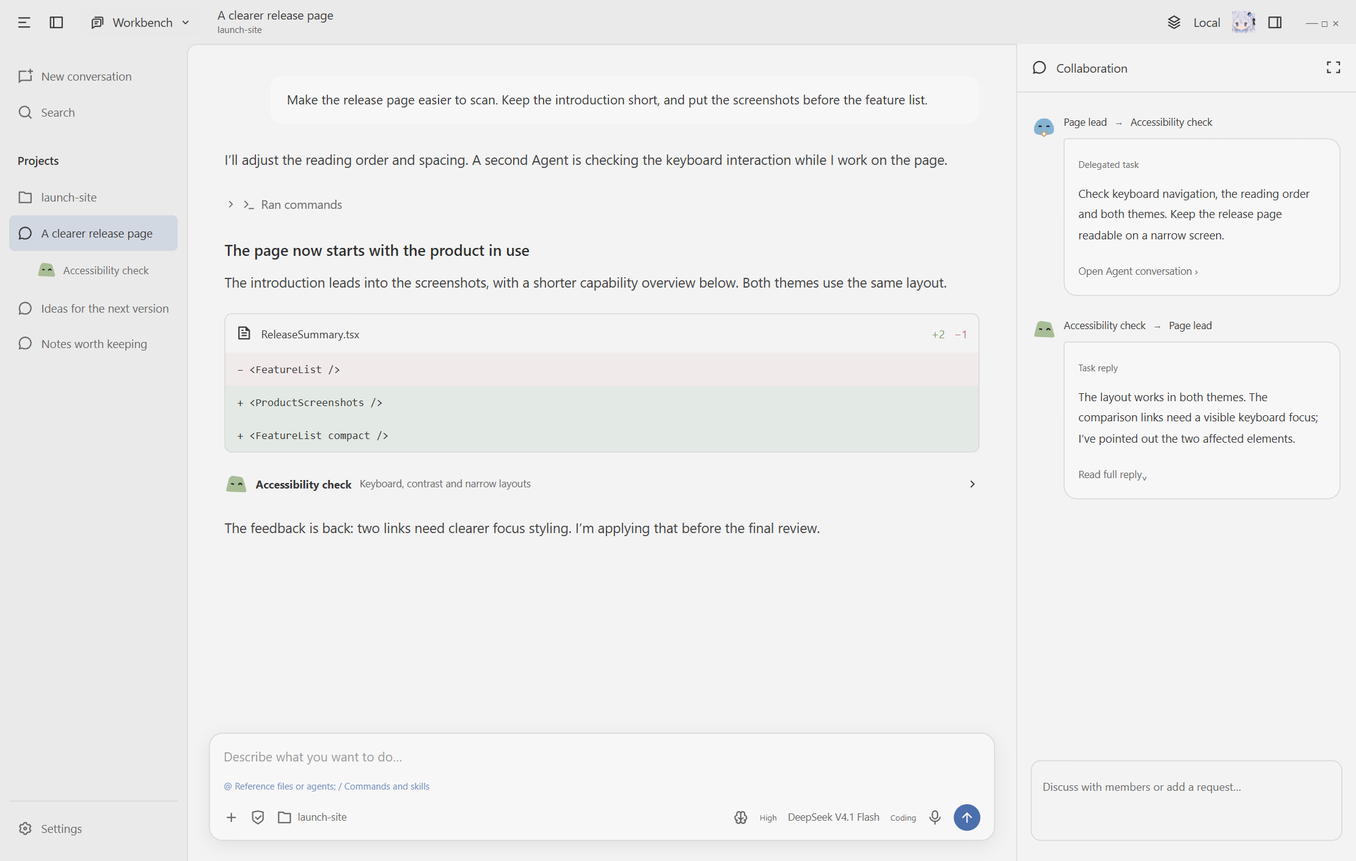
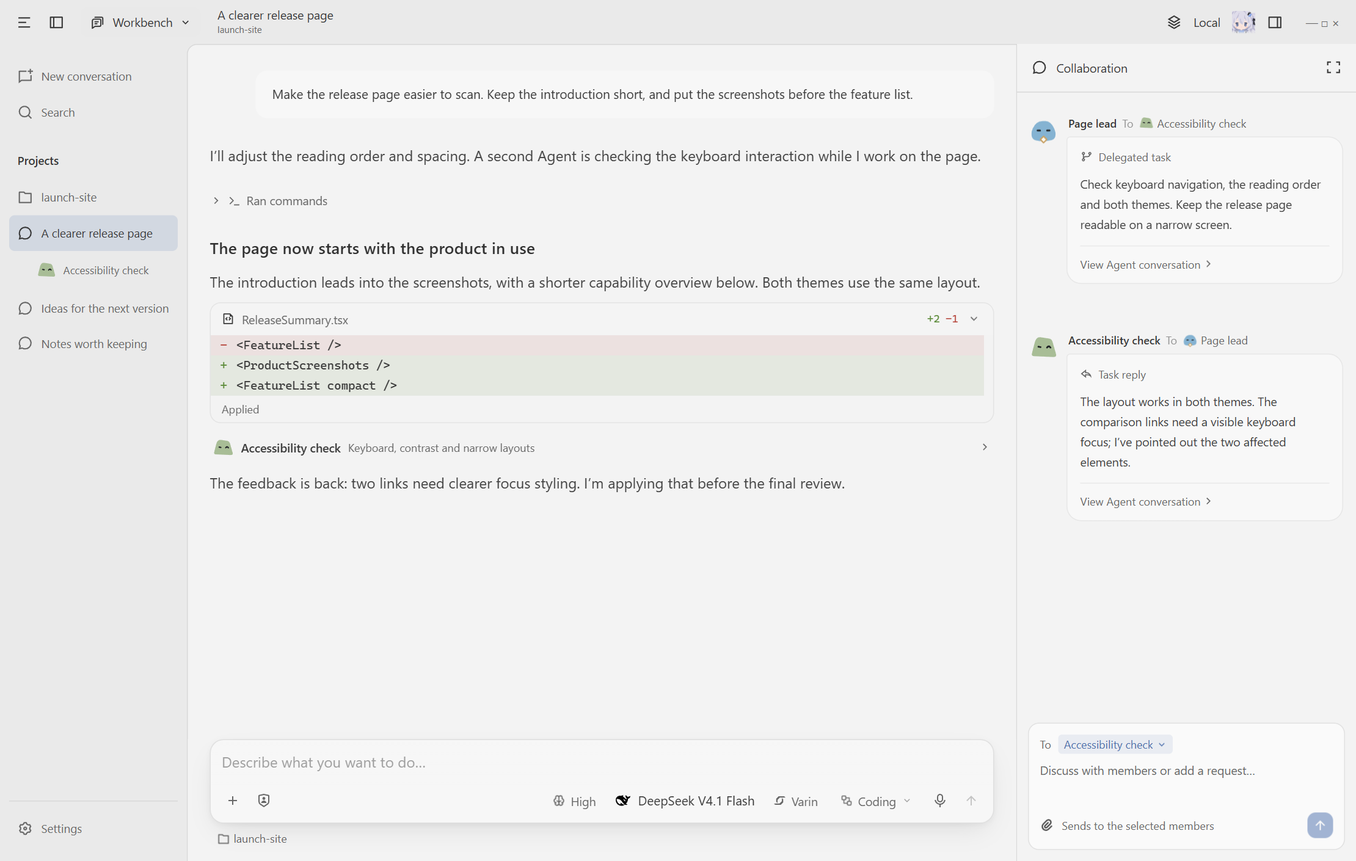
docs: expand chat showcases using production interface components

diff --git a/scripts/readme/scenes.tsx b/scripts/readme/scenes.tsx
@@ -16,16 +16,30 @@ import type { BotPanelModel } from '@/workbenches/bot/botPanelModel';
 import { BotWorkspaceNavigationContext, type BotWorkspaceNavigation } from '@/workbenches/bot/botWorkspaceViews';
 import { MarkdownRenderer } from '@/components/chat/MarkdownRenderer';
 import { DeclarativeUiContent } from '@/components/interactive-ui/DeclarativeUiContent';
-import { normalizeConversationUi } from '@varin/application-client';
+import { createThreadsHttpAPI, normalizeConversationUi, type ThreadThinkingLevel } from '@varin/application-client';
 import { ChatDialogueActivity } from '@/components/conversation/ChatDialogueActivity';
 import type { DialogueProcess } from '@/components/conversation/chatDialogueProjection';
 import type { ChatToolResultMessage } from '@/components/conversation/types';
+import { ThreadComposer } from '@/components/thread/ThreadComposer';
+import { ThreadAgentControls } from '@/components/thread/ThreadAgentControls';
+import { ThemeSystemContext } from '@/contexts/theme-system-context';
+import { TooltipProvider } from '@/components/ui/tooltip';
+import { ChatDelegation } from '@/components/conversation/ChatDelegation';
+import { ChatFileChangePreview } from '@/components/conversation/ChatFileChangePreview';
+import { CollaborationMessage } from '@/components/thread/CollaborationMessage';
+import { CollaborationComposer } from '@/components/thread/CollaborationComposer';
+import type { CollaborationFeedItem, CollaborationMember } from '@/components/thread/collaborationFeed';
+import workbenchImageEn from '../../.github/readme/assets/workbench-en.png?url';
+import workbenchImageZh from '../../.github/readme/assets/workbench-zh-CN.png?url';
+import ideImageEn from '../../.github/readme/assets/ide-en.png?url';
+import ideImageZh from '../../.github/readme/assets/ide-zh-CN.png?url';
 import './scenes.css';
 
 const params = new URLSearchParams(location.search);
 const scene = params.get('scene') || 'varin';
 const zh = params.get('lang') === 'zh-CN';
 const text = (en: string, cn: string) => zh ? cn : en;
+const botScene = scene !== 'workbench' && scene !== 'ide';
 const theme = light;
 const style = document.createElement('style');
 style.textContent = `:root { ${new CSSVariableGenerator().generate(theme as Theme)} }`;
@@ -34,6 +48,9 @@ await useI18nStore.getState().setLocale(zh ? 'zh-CN' : 'en');
 
 const taskNames = [text('Launch page', '发布页面'), text('Customer feedback', '用户反馈整理'), text('Release notes', '版本说明')];
 const noop = () => {};
+const themeContext = { currentTheme: light as Theme, availableThemes: [light as Theme], customThemesLoading: false,
+  reloadCustomThemes: async () => {}, themeMode: 'light' as const, lightThemeId: light.metadata.id, darkThemeId: '',
+  setThemeMode: noop, setLightThemePreference: noop, setDarkThemePreference: noop };
 const identity = { runtime: 'agent' as const, threadId: 'readme-release', branchId: 'main' };
 const model = {
   bot: { id: 'readme-varin', name: 'Varin', archived: false, activity: { state: 'awake' } }, figure: 'idle', stage: null,
@@ -59,7 +76,7 @@ function Row({ icon, children, active = false, end }: { icon: IconName; children
   return <div className={`nav-row ${active ? 'selected' : ''}`}><I name={icon} /><span>{children}</span>{end && <small>{end}</small>}</div>;
 }
 function Header() { return <header className="frame-header">
-  <I name="menu-2" /><I name="layout-left" /><span className="mode">{scene === 'varin' || scene === 'conversation' ? <VarinLogo decorative width={17} height={17} /> : <I name={scene === 'workbench' ? 'workbench-agent' : 'code'} />}{scene === 'workbench' ? text('Workbench', '工作台') : scene === 'ide' ? 'IDE' : 'Varin'}<I name="arrow-down-s" size={13} /></span>
+  <I name="menu-2" /><I name="layout-left" /><span className="mode">{botScene ? <VarinLogo decorative width={17} height={17} /> : <I name={scene === 'workbench' ? 'workbench-agent' : 'code'} />}{scene === 'workbench' ? text('Workbench', '工作台') : scene === 'ide' ? 'IDE' : 'Varin'}<I name="arrow-down-s" size={13} /></span>
   <div className="frame-title">{scene === 'ide' || scene === 'workbench' ? text('A clearer release page', '让发布页面更清晰') : text('Getting ready for Friday', '准备周五的发布')}<small>{scene === 'ide' || scene === 'workbench' ? 'launch-site' : 'Varin'}</small></div>
   <div className="frame-end"><I name="stack" />Local<BotFigure state="idle" size={25} still /><I name="layout-right" /><span className="window-controls">— □ ×</span></div>
 </header>; }
@@ -81,35 +98,60 @@ function Activity({ kind = 'search' }: { kind?: 'search' | 'code' }) {
   return <ChatDialogueActivity process={process} executions={{}} results={results} active={false} renderActivity={() => null} />;
 }
 function User({ children }: { children: React.ReactNode }) { return <div className="user-message">{children}</div>; }
-function Files() { return <div className="file-row"><I name="file-text" /><span>release-notes.md</span><small>Markdown</small><I name="arrow-right-s" size={13} /></div>; }
-function Composer({ bot = true }: { bot?: boolean }) { return <div className="composer-wrap"><div className="composer">
-  <div className="composer-placeholder">{text('Describe what you want to do…', '描述你想做的事…')}</div>
-  <div className="composer-hints">{text('@ Reference files or agents; / Commands and skills', '@ 引用文件或智能体；/ 使用命令和技能')}</div>
-  <div className="composer-controls"><I name="add" /><I name="shield-check" />{!bot && <span><I name="folder" />launch-site</span>}<div className="spacer" /><I name="brain" /><small>{text('High', '高')}</small><span>DeepSeek V4.1 Flash</span>{!bot && <small>{text('Coding', '编程')}</small>}<I name="mic" /><span className="send"><I name="arrow-up" /></span></div>
-</div></div>; }
+function Files() { return <M>{'[release-notes.md](release-notes.md)'}</M>; }
+function Delegate({ name, id, task, completed = false }: { name: string; id: string; task: string; completed?: boolean }) {
+  return <ChatDelegation call={{ type: 'toolCall', id, name: 'dispatch', arguments: { name, task } }}
+    result={{ role: 'toolResult', toolCallId: id, toolName: 'dispatch', content: [], details: { threadId: id, branchId: 'main', name }, timestamp: 0, isError: false }}
+    status={completed ? 'success' : 'running'} cwd="" output={null} details={null} />;
+}
+function Composer({ bot = true }: { bot?: boolean }) {
+  const [value, setValue] = React.useState('');
+  const [selection, setSelection] = React.useState<{ providerId: string; modelId: string; thinkingLevel: ThreadThinkingLevel }>({ providerId: 'deepseek', modelId: 'deepseek-v4.1-flash', thinkingLevel: 'high' });
+  return <form className="composer-wrap" onSubmit={event => event.preventDefault()}>
+    <ThreadComposer editorRef={null} value={value} onChange={setValue} {...selection}
+      models={[{ providerId: 'deepseek', modelId: 'deepseek-v4.1-flash', name: 'DeepSeek V4.1 Flash', thinkingLevels: ['off', 'low', 'medium', 'high'] }]}
+      onModelChange={(providerId, modelId, thinkingLevel) => setSelection({ providerId, modelId, thinkingLevel })}
+      modelDisabled={false} attachmentDisabled={false} imageDisabled={false} sendDisabled={false} pending={false} active={false} retrying={false}
+      onFiles={noop} onAttachImages={noop} onAttachPdfs={noop} hasInput={Boolean(value.trim())}
+      onWorkspace={bot ? undefined : noop} workspaceLabel="launch-site" attachmentNames={[]} skills={[]}
+      suggestion={scene === 'varin' ? text('Show me the release notes draft first.', '先把版本说明的草稿给我看看。') : undefined}
+      agentControls={bot ? undefined : <ThreadAgentControls workFocus="code" disabled={false} onWorkFocusChange={noop} />} />
+  </form>;
+}
 const choice = normalizeConversationUi({ type: 'choice', label: text('Who should the release notes speak to first?', '这次版本说明，先面向哪些读者？'),
   options: [text('People trying the product for the first time', '第一次使用产品的新用户'), text('Existing users looking for what changed', '想了解变化的现有用户')], action: text('Use this direction', '按这个方向继续') });
 function VarinConversation() { return <section className="conversation"><div className="message-flow rich-flow">
   <User>{text('Let’s get ready for Friday’s release. Help me pull the feedback, release notes and website work together.', '一起准备周五的发布吧。帮我把用户反馈、版本说明和官网的工作统筹起来。')}</User>
   <M>{text('I’ll gather what changed and keep the website work moving alongside it. We can settle the wording here.', '我先把这次变化和反馈整理到一起，官网的修改同时推进。版本说明的表达，我们在这里继续商量。')}</M>
   <Activity />
-  <div className="task-pair">{taskNames.slice(0, 2).map((name, i) => <div className="delegate" key={name}><AgentAvatar identity={`readme-work-${i}`} role="lead" size={24} /><b>{name}</b><small>{text('Working', '进行中')}</small><I name="arrow-right-s" size={14} /></div>)}</div>
+  <div className="delegated-work">{taskNames.slice(0, 2).map((name, i) => <Delegate key={name} name={name} id={`readme-work-${i}`} task={i === 0 ? text('Refine the introduction and screenshot order', '完善简介与配图顺序') : text('Group feedback and note recurring questions', '整理反馈与反复出现的问题')} />)}</div>
   <M>{text('### Give people a clear starting point\nThe most useful story is **what someone can do on their first day**. The feature list can follow once they understand that.\n\nI’ve put the notes in one file. We can refine them while the page and feedback review continue.', '### 先让人知道，打开后可以做什么\n这次最值得讲清楚的是**第一次打开就能完成什么**。功能清单可以放在后面，让人先看到使用方式。\n\n我把说明整理成了一个文件。官网页面和反馈整理继续推进，我们可以先完善这份说明。')}</M>
   <Files />
   <DeclarativeUiContent node={choice} sourceKey="readme-audience" />
 </div><Composer /></section>; }
-function Collaboration() { return <aside className="collaboration"><div className="panel-heading"><I name="chat-3" />{text('Collaboration', '协作')}<div className="spacer" /><I name="fullscreen" /></div>
-  <div className="collab-message"><AgentAvatar identity="page-lead" role="lead" size={25} /><div><div className="participants">{text('Page lead', '页面负责人')} <small>→</small> {text('Accessibility check', '无障碍检查')}</div><div className="bubble"><small>{text('Delegated task', '派发任务')}</small><p>{text('Check keyboard navigation, the reading order and both themes. Keep the release page readable on a narrow screen.', '检查键盘导航、阅读顺序和两种主题。确认发布页面在窄屏下依然易读。')}</p><span className="text-link">{text('Open Agent conversation', '查看 Agent 对话')} ›</span></div></div></div>
-  <div className="collab-message"><AgentAvatar identity="accessibility-review" size={25} /><div><div className="participants">{text('Accessibility check', '无障碍检查')} <small>→</small> {text('Page lead', '页面负责人')}</div><div className="bubble"><small>{text('Task reply', '任务回复')}</small><p>{text('The layout works in both themes. The comparison links need a visible keyboard focus; I’ve pointed out the two affected elements.', '两种主题下布局都正常。对比区域的链接需要清晰的键盘焦点，我已经标出了涉及的两个元素。')}</p><span className="text-link">{text('Read full reply', '展开全文')}⌄</span></div></div></div>
-  <div className="collab-input">{text('Discuss with members or add a request…', '和成员讨论，或补充要求…')}</div>
-</aside>; }
+function Collaboration() {
+  const api = React.useMemo(() => createThreadsHttpAPI(), []);
+  const [expanded, setExpanded] = React.useState<Record<string, boolean>>({});
+  const members: CollaborationMember[] = [{ threadId: 'page-lead', name: text('Page lead', '页面负责人'), agentId: 'lead', avatar: null, lead: true }, { threadId: 'accessibility-review', name: text('Accessibility check', '无障碍检查'), agentId: 'review', avatar: null }];
+  const shared = { operationId: 'readme-review', executionId: 'readme-review', senderBranchId: 'main', targetBranchId: 'main', acceptedCursor: 1, attachments: [] };
+  const items: CollaborationFeedItem[] = [
+    { id: 'dispatch', acceptedCursor: 1, kind: 'dispatch', dispatch: { ...shared, acceptedAtMs: 0, senderThreadId: 'page-lead', targetThreadId: 'accessibility-review', task: text('Check keyboard navigation, the reading order and both themes. Keep the release page readable on a narrow screen.', '检查键盘导航、阅读顺序和两种主题。确认发布页面在窄屏下依然易读。') } },
+    { id: 'report', acceptedCursor: 2, kind: 'report', report: { ...shared, senderThreadId: 'accessibility-review', targetThreadId: 'page-lead', outcome: 'succeeded', text: text('The layout works in both themes. The comparison links need a visible keyboard focus; I’ve pointed out the two affected elements.', '两种主题下布局都正常。对比区域的链接需要清晰的键盘焦点，我已经标出了涉及的两个元素。') } },
+  ];
+  return <aside className="collaboration"><div className="panel-heading"><I name="chat-3" />{text('Collaboration', '协作')}<div className="spacer" /><I name="fullscreen" /></div>
+    <div className="collaboration-feed">{items.map(item => <CollaborationMessage key={item.id} item={item} members={members} expanded={Boolean(expanded[item.id])} onExpandedChange={open => setExpanded(previous => ({ ...previous, [item.id]: open }))} onMember={noop} onReply={noop} onCopy={noop} onExchange={noop} />)}</div>
+    <CollaborationComposer api={api} identity={identity} draftKey="readme-collaboration" members={members} defaultTarget={{ runtime: 'agent', threadId: 'accessibility-review', branchId: 'main' }} onSent={noop} loadMembers={noop} moreMembers={false} />
+  </aside>;
+}
 function WorkbenchConversation() { return <section className="conversation"><div className="message-flow">
   <User>{text('Make the release page easier to scan. Keep the introduction short, and put the screenshots before the feature list.', '让发布页面更容易阅读。简介短一些，把截图放到功能列表之前。')}</User>
   <M>{text('I’ll adjust the reading order and spacing. A second Agent is checking the keyboard interaction while I work on the page.', '我来调整阅读顺序和间距。另一个 Agent 会同时检查键盘交互。')}</M>
   <Activity kind="code" />
   <M>{text('### The page now starts with the product in use\nThe introduction leads into the screenshots, with a shorter capability overview below. Both themes use the same layout.', '### 先展示产品怎么用\n简介之后直接进入截图，下方再展开精简的能力介绍。亮色和暗色使用同一套布局。')}</M>
-  <div className="diff"><div><I name="file-text" />ReleaseSummary.tsx<span className="spacer" /><span className="green">+2</span><span className="red">−1</span></div><pre className="removed">− {'<FeatureList />'}</pre><pre className="added">+ {'<ProductScreenshots />'}</pre><pre className="added">+ {'<FeatureList compact />'}</pre></div>
-  <div className="delegate"><AgentAvatar identity="accessibility-review" size={25} /><b>{text('Accessibility check', '无障碍检查')}</b><small>{text('Keyboard, contrast and narrow layouts', '键盘、对比度和窄屏布局')}</small><I name="arrow-right-s" size={15} /></div>
+  <ChatFileChangePreview previewId="readme-release-layout" phase="applied" file={{ path: 'ReleaseSummary.tsx', operation: 'update', counts: { added: 2, removed: 1 }, lines: [
+    { kind: 'remove', text: '<FeatureList />' }, { kind: 'add', text: '<ProductScreenshots />' }, { kind: 'add', text: '<FeatureList compact />' },
+  ] }} />
+  <Delegate completed name={text('Accessibility check', '无障碍检查')} id="accessibility-review" task={text('Keyboard, contrast and narrow layouts', '键盘、对比度和窄屏布局')} />
   <M>{text('The feedback is back: two links need clearer focus styling. I’m applying that before the final review.', '检查结果已经回来了：有两处链接需要更清晰的焦点样式。我正在补上，然后再看一遍最终效果。')}</M>
 </div><Composer bot={false} /></section>; }
 function Chart() { const [series, setSeries] = React.useState('all'); const values = series === 'all' ? [38, 26, 22, 14] : [44, 29, 18, 9]; return <div className="chart">
@@ -126,6 +168,40 @@ function RichConversation() { return <section className="conversation"><div clas
   <div className="sources"><I name="file-text" />feedback.csv<I name="global" />{text('Community discussion', '社区讨论')}<I name="arrow-right-s" size={14} /></div>
   <div className="turn-end"><span><I name="file-copy" /><I name="git-branch" /><I name="more" /></span><small>↓ 8,420 ↑ 1,106 {text('Cache', '缓存率')} 84%</small></div>
 </div><Composer /></section>; }
+function ChoiceConversation() {
+  const versions = normalizeConversationUi({ type: 'tabs', label: text('Opening paragraph', '开头的两种写法'), tabs: [
+    { label: text('A clear first step', '从具体用途开始'), content: text('**Start with something you want to get done.** Talk it through with Varin, let work continue alongside the conversation, and open a task whenever you want a closer look.', '**从一件想完成的事开始。** 和 Varin 商量，工作在对话旁继续推进；想看细节时，随时进入任务。') },
+    { label: text('What changed', '从这次更新开始'), content: text('**Keep the work moving, keep the conversation open.** This release brings task follow-ups, richer results and connected workspaces into the same conversation.', '**工作继续，交流也继续。** 这次更新把任务跟进、丰富的结果呈现和连接的工作区带进了同一段对话。') },
+  ] });
+  const preferences = normalizeConversationUi({ type: 'form', fields: [
+    { type: 'choice', key: 'focus', label: text('What should the short announcement include?', '简短的发布消息里，哪些值得保留？'), multiple: true, allowOther: true,
+      options: [text('A concrete task someone can try right away', '一个读完就能尝试的具体任务'), text('A picture showing the conversation and ongoing work together', '一张把聊天与进行中的工作放在一起的配图'), text('Installation steps and the full technical change list', '安装步骤和完整的技术改动清单')] },
+    { type: 'input', key: 'length', label: text('Approximate length', '期望篇幅'), inputType: 'range', unit: text('words', '字'), min: 200, max: 800, step: 50 },
+  ], action: text('Draft the announcement with these preferences', '按这些偏好写一版发布消息') });
+  return <section className="conversation"><div className="message-flow rich-flow choice-flow">
+    <User>{text('Show me two openings first. Let me choose what to keep before you write the full announcement.', '先给我看看两种开头，正文里保留哪些内容，我选一下你再写。')}</User>
+    <M>{text('I’d lead with a task people can recognize. You can switch between the openings, then adjust what goes into the short version.', '我倾向先讲一件读者能理解的具体事情。两种开头可以切换着看，再选短版里要保留的内容。')}</M>
+    <DeclarativeUiContent node={versions} sourceKey="readme-openings" />
+    <DeclarativeUiContent node={preferences} sourceKey="readme-announcement-preferences" />
+  </div><Composer /></section>;
+}
+function ReadingConversation() {
+  const imageUrl = (url: string) => new URL(url, location.href).href;
+  const gallery = text(
+    `![Workbench — follow changes and Agent replies](${imageUrl(workbenchImageEn)})\n\n![IDE — edit files beside the conversation](${imageUrl(ideImageEn)})`,
+    `![工作台：跟进改动与 Agent 回复](${imageUrl(workbenchImageZh)})\n\n![IDE：在对话旁直接编辑文件](${imageUrl(ideImageZh)})`);
+  const notes = normalizeConversationUi({ type: 'disclosure', label: text('Read the suggested captions', '展开看配图文案'), content: text(
+    '**Workbench:** See how a task is progressing, read changes and talk to the Agents doing the work.\n\n**IDE:** Keep the conversation close while you edit files, run commands and inspect the project.',
+    '**工作台：** 看任务怎么推进，阅读改动，并与正在工作的 Agent 继续讨论。\n\n**IDE：** 直接编辑文件、运行命令、检查项目，同时保留旁侧对话。') });
+  return <section className="conversation"><div className="message-flow rich-flow reading-flow">
+    <User>{text('How should these two screenshots sit beside the Varin introduction? Compare them for me.', '这两张图怎么配合前面的 Varin 介绍？放在一起帮我比较一下。')}</User>
+    <M>{text('### Show how far someone can step into the work\nThe Varin conversation explains the overall experience. These two views show what happens when you want to follow a task or work directly on a file.', '### 用两张图解释，可以深入到哪一步\nVarin 对话负责讲整体体验。这两张图接着说明：想跟进任务，或者亲自处理文件时，可以怎么做。')}</M>
+    <M>{gallery}</M>
+    <M>{text('| View | What the reader sees | Where it fits |\n| --- | --- | --- |\n| **Workbench** | Changes, progress and Agent replies | After introducing task delegation |\n| **IDE** | The file, terminal and conversation together | When explaining hands-on editing |', '| 视图 | 读者先看到什么 | 放在哪里更合适 |\n| --- | --- | --- |\n| **工作台** | 文件改动、任务进度与 Agent 回复 | 派发任务的介绍之后 |\n| **IDE** | 文件、终端与旁侧对话 | 说明亲自编辑的地方 |')}</M>
+    <DeclarativeUiContent node={notes} sourceKey="readme-image-captions" />
+    <div className="turn-end"><span><I name="file-copy" /><I name="git-branch" /><I name="more" /></span><small>↓ 6,280 ↑ 824 {text('Cache', '缓存率')} 91%</small></div>
+  </div><Composer /></section>;
+}
 function Editor() { const host = React.useRef<HTMLDivElement>(null); React.useEffect(() => { let editor: { dispose(): void } | undefined; let cancelled = false; void Promise.all([import('monaco-editor/esm/vs/editor/editor.api'), import('monaco-editor/esm/vs/editor/editor.worker?worker'), import('monaco-editor/esm/vs/languages/definitions/typescript/register.js')]).then(([monaco, worker]) => {
     if (cancelled || !host.current) return;
     (globalThis as typeof globalThis & { MonacoEnvironment: unknown }).MonacoEnvironment = { getWorker: () => new worker.default() };
@@ -134,6 +210,6 @@ function Editor() { const host = React.useRef<HTMLDivElement>(null); React.useEf
     document.body.dataset.editorReady = 'true';
   }); return () => { cancelled = true; editor?.dispose(); }; }, []); return <div className="editor-area"><div className="editor-tabs"><span><I name="file-code" />ReleaseSummary.tsx ×</span><span>release.css</span></div><div ref={host} className="monaco-host" /><div className="terminal"><div>{text('Terminal', '终端')} <span>{text('Problems', '问题')} 0</span></div><pre>$ bun run build<br /><span className="green">✓</span> {text('Build completed', '构建完成')}<br />$ <span className="cursor">▌</span></pre></div></div>; }
 function IdeChat() { return <div className="ide-chat"><div className="panel-heading"><I name="chat-3" />{text('Conversation', '对话')}</div><User>{text('The order looks good. Keep the focus styles consistent with the rest of the site.', '顺序看着不错，焦点样式也和站点其他部分保持一致。')}</User><M>{text('I’ll reuse the existing focus treatment. The content order stays as we agreed.', '我会复用已有的焦点样式，内容顺序保持刚才商量的版本。')}</M><Activity kind="code" /><M>{text('The changes are in `ReleaseSummary.tsx` and `release.css`. You can edit the files here while we keep discussing the page.', '改动在 `ReleaseSummary.tsx` 和 `release.css`。你可以直接在这里编辑，我们继续讨论页面。')}</M><Files /><Composer bot={false} /></div>; }
-export function App() { return <I18nProvider><div className={`readme-app ${scene}`}><Header /><div className="frame-body">{(scene === 'workbench' || scene === 'ide') && <Sidebar />}{scene === 'varin' ? <><VarinConversation /><aside className="bot-area"><BotWorkspaceNavigationContext.Provider value={navigation}><BotPanelBody model={model} /></BotWorkspaceNavigationContext.Provider></aside></> : scene === 'workbench' ? <><WorkbenchConversation /><Collaboration /></> : scene === 'ide' ? <><Editor /><IdeChat /></> : <RichConversation />}</div></div></I18nProvider>; }
-createRoot(document.getElementById('root')!).render(<App />);
+export function App() { return <I18nProvider><div className={`readme-app ${scene}`}><Header /><div className="frame-body">{!botScene && <Sidebar />}{scene === 'varin' ? <><VarinConversation /><aside className="bot-area"><BotWorkspaceNavigationContext.Provider value={navigation}><BotPanelBody model={model} /></BotWorkspaceNavigationContext.Provider></aside></> : scene === 'workbench' ? <><WorkbenchConversation /><Collaboration /></> : scene === 'ide' ? <><Editor /><IdeChat /></> : scene === 'conversation-choices' ? <ChoiceConversation /> : scene === 'conversation-reading' ? <ReadingConversation /> : <RichConversation />}</div></div></I18nProvider>; }
+createRoot(document.getElementById('root')!).render(<ThemeSystemContext.Provider value={themeContext}><TooltipProvider><App /></TooltipProvider></ThemeSystemContext.Provider>);
 document.body.dataset.readmeReady = 'true';

diff --git a/scripts/readme/scenes.css b/scripts/readme/scenes.css
@@ -1,7 +1,6 @@
 /* Layout fixtures surround the product's actual Markdown, choices, activity,
    avatars, Bot panel and editor. This stylesheet is never shipped with the app. */
 @source "./scenes.tsx";
-:root { --font-sans: "Segoe UI", "Microsoft YaHei UI", sans-serif; --font-mono: Consolas, monospace; }
 body { margin: 0; font-family: var(--font-sans); color: var(--foreground); background: var(--background); }
 * { box-sizing: border-box; }
 .readme-app { width: 1480px; height: 940px; overflow: hidden; background: var(--workbench-frame); }
@@ -20,22 +19,10 @@ body { margin: 0; font-family: var(--font-sans); color: var(--foreground); backg
 .nav-bottom { margin-top: auto; border-top: 1px solid var(--border); padding-top: 10px; }
 .sub-agent { display: flex; gap: 8px; align-items: center; padding: 10px 0 12px 30px; font-size: 11.5px; color: var(--muted-foreground); }
 .conversation { flex: 1; min-width: 0; display: flex; flex-direction: column; background: var(--background); border-radius: 11px 0 0 0; border: 1px solid var(--border); border-bottom: 0; }
-.message-flow { flex: 1; min-height: 0; padding: 34px 40px 12px; overflow: hidden; }
-.message-flow .markdown-content { font-size: 15px; line-height: 1.8; }
-.message-flow .markdown-content h3 { font-size: 18px; margin-top: 18px; margin-bottom: 12px; }
+.message-flow { flex: 1; min-height: 0; padding: 28px 24px 12px; overflow: auto; scrollbar-width: thin; }
 .user-message { margin: 0 0 26px 50px; padding: 14px 18px; background: var(--muted); border-radius: 13px; font-size: 14px; line-height: 1.7; }
 .message-flow .dialogue-activity { margin: 20px 0 23px; }
-.file-row { display: flex; align-items: center; gap: 9px; width: fit-content; border: 1px solid var(--border); border-radius: 7px; padding: 10px 13px; font-size: 12.5px; margin: 17px 0 24px; }
-.file-row small { color: var(--muted-foreground); font-size: 11px; margin: 0 10px 0 7px; }
-.message-flow .conversation-ui-fragment { font-size: 14px; line-height: 1.65; }
-.message-flow .conversation-ui-fragment button { font-size: 13px; }
-.composer-wrap { padding: 15px 23px 22px; }
-.composer { border: 1px solid var(--border); border-radius: 15px; background: var(--muted); padding: 14px 15px 10px; box-shadow: 0 5px 18px #00000012; }
-.composer-placeholder { font-size: 14px; color: color-mix(in srgb, var(--muted-foreground) 65%, transparent); margin-bottom: 15px; }
-.composer-hints { font-size: 10px; color: var(--primary-base); opacity: .8; margin-bottom: 12px; }
-.composer-controls { display: flex; align-items: center; gap: 12px; font-size: 11px; color: var(--muted-foreground); }
-.composer-controls span { display: flex; align-items: center; gap: 6px; white-space: nowrap; }
-.composer-controls .send { padding: 6px; border-radius: 50%; background: var(--primary-base); color: var(--primary-foreground); }
+.composer-wrap { flex-shrink: 0; padding-top: 12px; }
 .spacer { flex: 1; }
 .bot-area { width: 338px; flex-shrink: 0; border-left: 1px solid var(--border); background: var(--background); }
 .bot-area .bot-panel-body { height: 100%; }
@@ -43,24 +30,10 @@ body { margin: 0; font-family: var(--font-sans); color: var(--foreground); backg
 .bot-area .bot-pane { padding: 16px; }
 .panel-heading { display: flex; align-items: center; gap: 10px; padding: 16px; border-bottom: 1px solid var(--border); font-size: 13px; }
 .collaboration { width: 370px; background: var(--background); display: flex; flex-direction: column; }
-.collab-message { display: flex; gap: 9px; margin: 24px 17px 0; font-size: 12.5px; }
-.collab-message > div { flex: 1; min-width: 0; }
-.participants { font-size: 11px; margin: 0 0 10px; }
-.participants small { margin: 0 6px; color: var(--muted-foreground); }
-.bubble { background: var(--muted); border: 1px solid var(--border); border-radius: 3px 14px 14px 14px; padding: 15px; line-height: 1.8; }
-.bubble small { color: var(--muted-foreground); }
-.bubble p { margin: 10px 0 17px; }
-.text-link { color: var(--muted-foreground); font-size: 11px; }
-.collab-input { margin: auto 15px 22px; padding: 18px 12px 50px; border: 1px solid var(--border); border-radius: 11px; font-size: 12px; color: var(--muted-foreground); }
-.diff { border: 1px solid var(--border); border-radius: 8px; overflow: hidden; font-size: 12px; margin: 20px 0; }
-.diff > div { display: flex; align-items: center; gap: 10px; padding: 12px; }
-.diff pre { font-size: 12px; padding: 9px 13px; margin: 0; }
-.removed { background: #d16d6d12; }.added { background: #5c95601a; }.green { color: #779d65; }.red { color: #bb7474; }
-.delegate { display: flex; align-items: center; gap: 9px; margin: 22px 0; font-size: 12px; }
-.delegate small { font-size: 11px; color: var(--muted-foreground); flex: 1; }
-.task-pair { display: flex; gap: 36px; margin: 18px 0 22px; }
-.task-pair .delegate { flex: 1; margin: 0; }
-.rich-flow { width: 920px; max-width: 100%; margin: 0 auto; padding-top: 28px; }
+.collaboration-feed { flex: 1; min-height: 0; display: flex; flex-direction: column; gap: 28px; overflow: auto; padding: 24px 14px; }
+.green { color: var(--status-success); }
+.delegated-work { margin-block: 18px; }
+.rich-flow { width: min(100%, var(--chat-content-width, 960px)); margin: 0 auto; padding-top: 28px; }
 .conversation .composer-wrap { width: 100%; }
 .conversation:not(.workbench) .chart { margin: 20px 0; }
 .chart { border: 1px solid var(--border); border-radius: 10px; padding: 22px 25px 15px; }
@@ -72,9 +45,10 @@ body { margin: 0; font-family: var(--font-sans); color: var(--foreground); backg
 .chart-note { border-top: 1px solid var(--border); padding-top: 12px; margin-top: 18px; color: var(--muted-foreground); font-size: 10px; }
 .sources { display: flex; align-items: center; gap: 9px; color: var(--muted-foreground); font-size: 11px; margin-top: 18px; }.sources svg:not(:first-child) { margin-left: 16px; }
 .turn-end { display: flex; justify-content: space-between; color: var(--muted-foreground); margin-top: 20px; }.turn-end span { display: flex; gap: 14px; }.turn-end small { font-size: 10px; }
-.conversation .rich-flow + .composer-wrap { width: 920px; max-width: 100%; margin: 0 auto; }
+.choice-flow > .conversation-ui-fragment { margin-block: 18px; }
+.reading-flow .markdown-content h3 { margin-top: 0; }
 .editor-area { flex: 1; min-width: 0; display: flex; flex-direction: column; background: var(--background); border: 1px solid var(--border); }
 .editor-tabs { display: flex; height: 44px; border-bottom: 1px solid var(--border); font-size: 12px; color: var(--muted-foreground); }.editor-tabs span { padding: 12px 18px; display: flex; align-items: center; gap: 8px; }.editor-tabs span:first-child { color: var(--foreground); border-bottom: 1px solid var(--primary-base); }
 .monaco-host { flex: 1; min-height: 0; }.terminal { height: 145px; border-top: 1px solid var(--border); font-size: 12px; padding: 15px 23px; }.terminal span { color: var(--muted-foreground); }.terminal pre { margin-top: 15px; line-height: 1.9; }
 .ide-chat { width: 460px; flex-shrink: 0; background: var(--background); display: flex; flex-direction: column; padding: 0 22px; }
-.ide-chat .panel-heading { margin: 0 -22px 26px; }.ide-chat .user-message { margin-left: 10px; font-size: 13px; }.ide-chat .markdown-content { font-size: 14px; line-height: 1.8; }.ide-chat .dialogue-activity { margin: 20px 0; }.ide-chat .composer-wrap { margin-top: auto; padding: 0 0 22px; }.ide-chat .composer-controls { gap: 7px; font-size: 10px; }.ide-chat .composer-hints { font-size: 9px; }
+.ide-chat .panel-heading { margin: 0 -22px 26px; }.ide-chat .user-message { margin-left: 10px; font-size: 13px; }.ide-chat .dialogue-activity { margin: 20px 0; }.ide-chat .composer-wrap { margin-top: auto; margin-inline: -22px; }

diff --git a/README.md b/README.md
@@ -85,6 +85,18 @@ Read, compare, choose and refine a result in the conversation itself.
   <img src=".github/readme/assets/conversation-en.png" alt="Prose, an interactive feedback chart, file and web references, and the composer share one conversation" width="1100" />
 </p>
 
+**Choose and refine without leaving the explanation.** Compare alternative wording in tabs, select several priorities, add your own thoughts and adjust a parameter. Fill the result into the composer when you are ready to continue.
+
+<p align="center">
+  <img src=".github/readme/assets/conversation-choices-en.png" alt="Alternative openings in tabs, a multiple-choice question, an expanded personal answer and a length slider in the same conversation" width="1100" />
+</p>
+
+**Read images and text together.** Image previews keep their proportions and open for a closer look. Tables make comparisons scannable; supporting details can stay folded beside the explanation.
+
+<p align="center">
+  <img src=".github/readme/assets/conversation-reading-en.png" alt="Two image previews placed between explanatory paragraphs, followed by a comparison table and expandable captions" width="1100" />
+</p>
+
 [Conversation and interactive content](docs/interactive-content.md)
 
 ## Tools for the whole task
